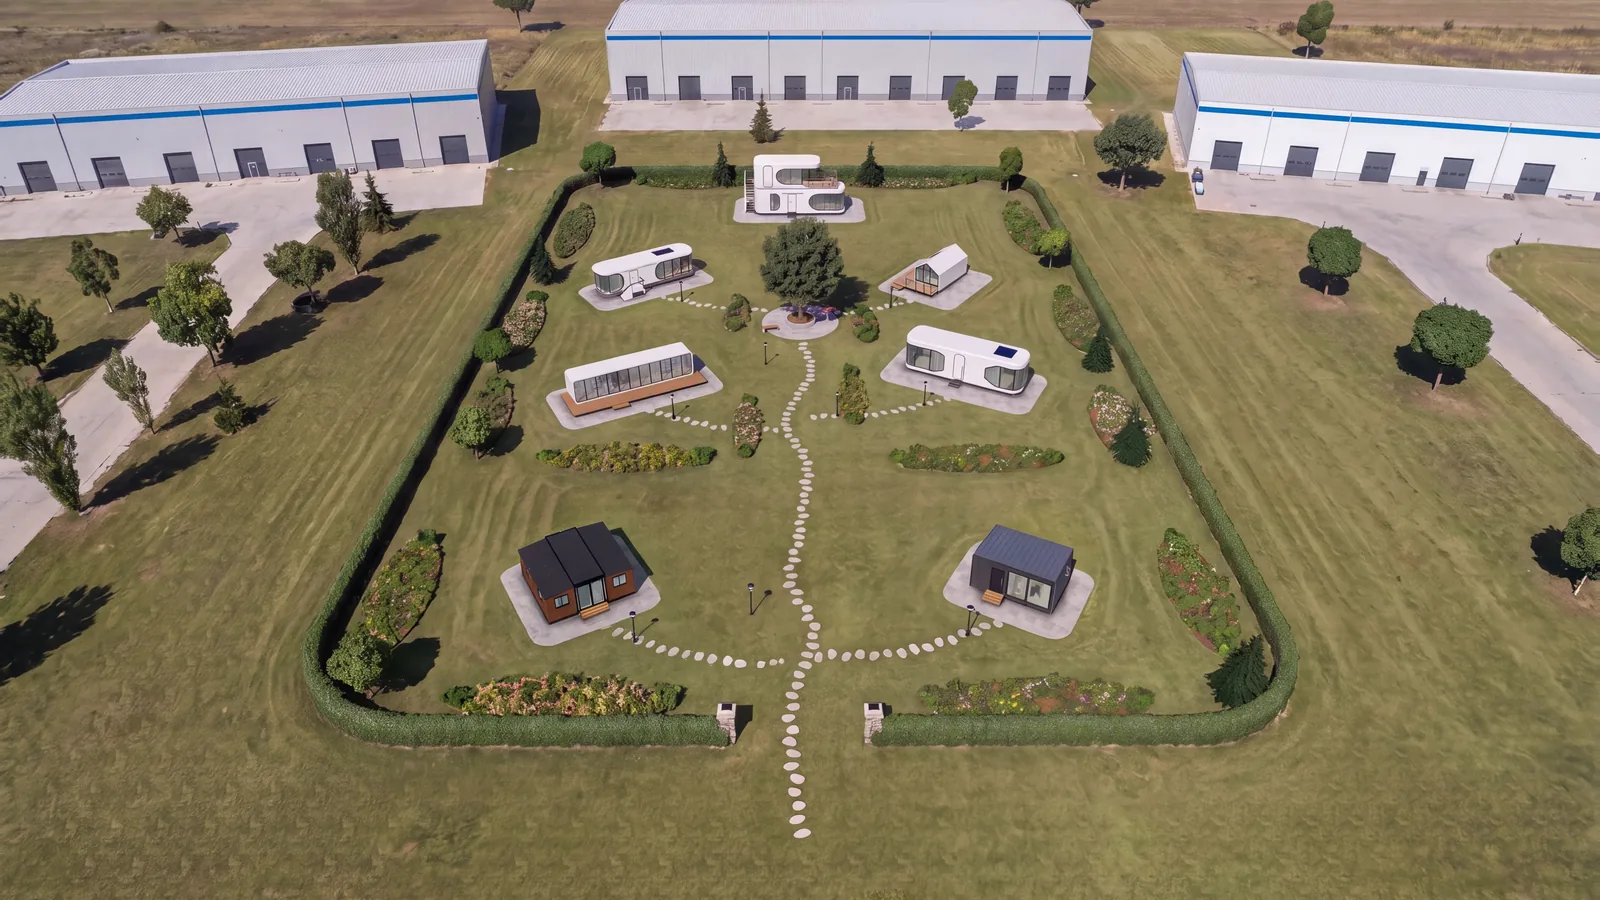
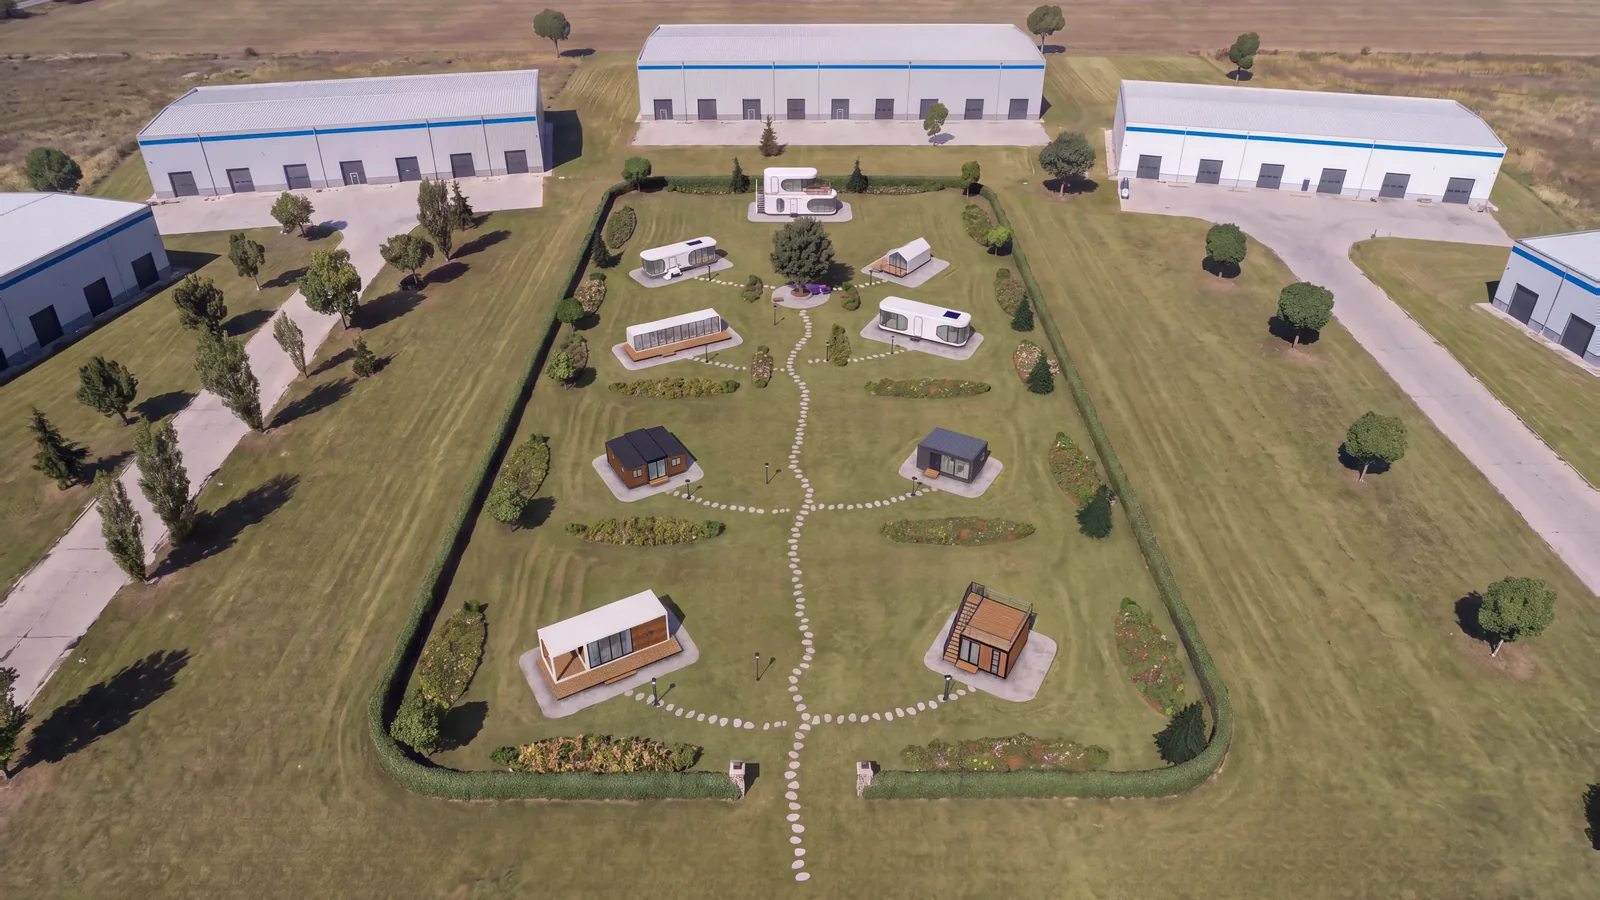
Casele K5 și YK5 în grădină, cu imagini reale (vederi, plan, camere); grădina mărită a doua oară
Claude-Session: https://claude.ai/code/session_01KQBPBSm1ebqTvHwEmS7Cs6

diff --git a/site/js/gradina-data.js b/site/js/gradina-data.js
@@ -35,6 +35,14 @@ export const CASE = [
   { cod: 'C20', mod: 'h_c20', x: -15.5, z: 40, rot: 30, sideP: -1, ai: ['c20_living', 'c20_bucatarie', 'c20_baie', 'c20_dormitor1', 'c20_dormitor2'],
     date: { s: 'C', sn: 'Extensibilă', d: '5,9 × 6,2 × 2,48 m', a: 36.6, l: '2 dormitoare · 1 living cu bucătărie · 1 baie',
       t: 'Casă extensibilă de 20 ft: vine strânsă, cât un container, și se desface pe loc în ambele părți. Două dormitoare, living cu bucătărie și baie.', p: null } },
+  // K5 și YK5: casele din oferta din 24 nov 2026, în partea adăugată la a doua mărire a grădinii. Datele sunt din fișa furnizorului;
+  // prețul de vânzare nu se știe încă (nu-l inventa). Camerele din model: K5 = Cameră, Terasă; YK5 = Living, Bucătărie, Baie, Dormitor.
+  { cod: 'K5', mod: 'h_k5', x: 15.5, z: 66, rot: -30, ai: ['k5_camera', 'k5_terasa'],
+    date: { s: 'K', sn: 'Extensibilă cu terasă', d: '4,0 × 5,0 × 2,55 m', a: 20, l: '1 cameră · terasă pe acoperiș',
+      t: 'Căsuță care se desface pe loc la 4 × 5 m, cu scară exterioară și terasă pe tot acoperișul, cu balustradă de sticlă.', p: null } },
+  { cod: 'YK5', mod: 'h_yk5', x: -15.5, z: 66, rot: 30, ai: ['yk5_living', 'yk5_bucatarie', 'yk5_baie', 'yk5_dormitor'],
+    date: { s: 'YK', sn: 'Modulară', d: '9,6 × 3,3 × 3,0 m', a: 32, l: '1 dormitor · 1 living cu bucătărie · 1 baie',
+      t: 'Casă modulară cu ramă albă și fațadă din lamele de lemn: living cu bucătărie în spatele unei uși glisante mari, dormitor, baie și un colț acoperit de terasă.', p: null } },
 ];
 
 // Grădina: mărimea gardului viu și locul intrării (metri). Pe 16 nov 2026 a fost mărită spre intrare (înainte: adancime 72, centruZ −8,
@@ -42,7 +50,7 @@ export const CASE = [
 // x = ±15,5, z = 40. straturiNoi = straturi cu flori puse pe locurile încă libere: [x, z, jumătate de lățime, jumătate de adâncime, culori 0–3];
 // când vine o casă pe un loc liber, stratul de acolo se scoate din listă. Dacă mai trebuie loc: se mărește iar adancime (și centruZ,
 // intrareZ cu jumătate / cu totul), apoi se refac imaginile cu toată grădina.
-export const GRADINA = { latime: 64, adancime: 98, centruZ: 5, intrareZ: 54, straturiNoi: [] };
+export const GRADINA = { latime: 64, adancime: 124, centruZ: 18, intrareZ: 80, straturiNoi: [] };
 
 // Imagini realiste (făcute cu AI pornind de la machetă) pentru vederile de zi din afară: toată grădina și fiecare casă.
 // Pentru fiecare vedere (all = toată grădina, apoi codul casei): [imaginea pentru ecran lat, imaginea pentru ecran înalt]; unde lipsește
@@ -52,7 +60,7 @@ export const GRADINA = { latime: 64, adancime: 98, centruZ: 5, intrareZ: 54, str
 // exact din locul în care stă camera în acea vedere (locurile se citesc din pagină cu __gradina.views()), deci, dacă muți o casă,
 // schimbi grădina sau locul camerei, imaginile trebuie refăcute (surse/ai360/CITESTE.md). Seara se vede macheta 3D.
 export const VEDERI = {
-  all: [['gr_all', -0.762, 0.762, -0.558, 0.458], ['gr_all_p', -0.34, 0.34, -0.492, 0.413]],   // grădina mărită, cu T6 și C20 (17 nov 2026)
+  all: [['gr_all_v2', -0.762, 0.762, -0.558, 0.458], ['gr_all_p_v2', -0.34, 0.34, -0.492, 0.413]],   // grădina mărită a doua oară, cu K5 și YK5 (24 nov 2026)
   X7: [['gr_x7', -1.068, 0.686, -0.514, 0.473], ['gr_x7_p', -0.494, 0.309, -0.282, 0.321]],
   T7: [['gr_t7', -1.065, 0.59, -0.51, 0.421], ['gr_t7_p', -0.491, 0.284, -0.271, 0.31]],
   E7: [['gr_e7', -1.069, 0.712, -0.521, 0.481], ['gr_e7_p', -0.55, 0.337, -0.281, 0.311]],
@@ -60,6 +68,8 @@ export const VEDERI = {
   M9: [['gr_m9', -0.997, 0.795, -0.525, 0.483], ['gr_m9_p', -0.302, 0.302, -0.349, 0.407]],
   T6: [['gr_t6', -1.149, 0.805, -0.597, 0.503], ['gr_t6_p', -0.296, 0.296, -0.27, 0.321]],
   C20: [['gr_c20', -1.164, 0.79, -0.597, 0.503], ['gr_c20_p', -0.253, 0.253, -0.296, 0.335]],
+  K5: [['gr_k5', -1.023, 0.838, -0.492, 0.555], ['gr_k5_p', -0.285, 0.285, -0.331, 0.382]],
+  YK5: [['gr_yk5', -1.069, 0.708, -0.52, 0.48], ['gr_yk5_p', -0.498, 0.297, -0.279, 0.318]],
 };
 
 // Rotirea realistă a unei case: cadrele unei filmări (făcute cu AI pornind de la rotirea machetei) care ocolește casa complet, pe
@@ -96,4 +106,6 @@ export const PLANURI = {
   M9: [['pl_m9_1', -1.129, 0.561, -0.614, 0.513], ['pl_m9_2', -1.129, 0.561, -0.614, 0.513]],
   T6: [['pl_t6_1', -1.059, 0.67, -0.408, 0.333]],
   C20: [['pl_c20_1', -1.059, 0.67, -0.408, 0.333]],
+  K5: [['pl_k5_1', -1.059, 0.67, -0.408, 0.333]],
+  YK5: [['pl_yk5_1', -1.061, 0.648, -0.525, 0.436]],
 };

diff --git a/site/js/garden.js b/site/js/garden.js
@@ -7,7 +7,7 @@ import { THREE, clamp, lerp, ease, webglOK, fit } from './kit.js';
 import { createGScene } from './gscene.js';
 import { buildGarden } from './genv.js';
 import { createPano } from './pano.js';
-import { CASE, GRADINA, VEDERI, ROTIRI, PLANURI } from './gradina-data.js?v=20261124';   // ?v= se schimbă când se schimbă datele sau imaginile (altfel navigatorul ține fișierul vechi)
+import { CASE, GRADINA, VEDERI, ROTIRI, PLANURI } from './gradina-data.js?v=20261124b';   // ?v= se schimbă când se schimbă datele sau imaginile (altfel navigatorul ține fișierul vechi)
 import { openClip, warmClip, canClip } from './clip.js';
 
 window.__gdMod = 1;   // semn pentru pagina că modulul s-a încărcat (altfel pagina arată imaginea de rezervă)
@@ -143,7 +143,8 @@ async function boot() {
   function view(m, i, l, pv) {
     let L, P;
     if (m === 'all' || i < 0) {
-      L = { tx: 0, ty: 1, tz: GZ + 10, az: 0, el: 31, fw: 82, fh: 58 }; P = { tx: 0, ty: 1, tz: GZ + 10, az: 0, el: 50, fw: 50, fh: 84 };   // grădina mărită (98 m adâncime)
+      const GD = GRADINA.adancime, fL = GD > 98 ? GD * .515 + 7.5 : 58, fP = GD > 98 ? GD * .766 + 9 : 84;   // la 98 m: cadrele cu care au fost făcute imaginile; mai adâncă: cadrul crește cu ea
+      L = { tx: 0, ty: 1, tz: GZ + 10, az: 0, el: 31, fw: fL * 82 / 58, fh: fL }; P = { tx: 0, ty: 1, tz: GZ + 10, az: 0, el: 50, fw: fP * 50 / 84, fh: fP };
     } else {
       const h = H[i], s = h.s, r = h.c.rot, c = h.center, long = isLong(s), two = h.api.levels > 1;
       if (m === 'house') {

diff --git a/site/home.html b/site/home.html
@@ -2837,7 +2837,7 @@ if(document.fonts&&document.fonts.ready)document.fonts.ready.then(()=>{measure()
 place();measure();update();
 })();
 </script>
-<script type="module" src="js/garden.js?v=20261124"></script>
+<script type="module" src="js/garden.js?v=20261124b"></script>
 <script>/* dacă modulul grădinii nu s-a putut încărca: rămâne imaginea grădinii */
 addEventListener('load',()=>setTimeout(()=>{const s=document.getElementById('gradina');if(!s||window.__gdMod)return;s.classList.add('gd--static');const i=s.querySelector('.gd-still[data-src]');if(i){i.src=i.dataset.src;i.removeAttribute('data-src')}},400));</script>
 </body>

diff --git a/site/index.html b/site/index.html
@@ -2837,7 +2837,7 @@ if(document.fonts&&document.fonts.ready)document.fonts.ready.then(()=>{measure()
 place();measure();update();
 })();
 </script>
-<script type="module" src="js/garden.js?v=20261124"></script>
+<script type="module" src="js/garden.js?v=20261124b"></script>
 <script>/* dacă modulul grădinii nu s-a putut încărca: rămâne imaginea grădinii */
 addEventListener('load',()=>setTimeout(()=>{const s=document.getElementById('gradina');if(!s||window.__gdMod)return;s.classList.add('gd--static');const i=s.querySelector('.gd-still[data-src]');if(i){i.src=i.dataset.src;i.removeAttribute('data-src')}},400));</script>
 </body>

diff --git a/surse/final/parts/gradina.html b/surse/final/parts/gradina.html
@@ -196,7 +196,7 @@
 </section>
 <!--/HTML-->
 <!--JS-->
-<script type="module" src="js/garden.js?v=20261124"></script>
+<script type="module" src="js/garden.js?v=20261124b"></script>
 <script>/* dacă modulul grădinii nu s-a putut încărca: rămâne imaginea grădinii */
 addEventListener('load',()=>setTimeout(()=>{const s=document.getElementById('gradina');if(!s||window.__gdMod)return;s.classList.add('gd--static');const i=s.querySelector('.gd-still[data-src]');if(i){i.src=i.dataset.src;i.removeAttribute('data-src')}},400));</script>
 <!--/JS-->

diff --git a/CLAUDE.md b/CLAUDE.md
@@ -367,23 +367,28 @@ partea a șasea. Credite folosite: ≈ 57.100 (din care ≈ 10.900 pe o încerca
 - Stă la https://designdn25-afk.github.io/capsula-media/agrokart/ ; sursa e pe ramura `claude/agrokart-demo` (`agrokart/demo`, făcută cu
   `agrokart/tools/genereaza.py`). `tools/publica_pages.sh` o pune la loc la fiecare publicare a site-ului cu capsule.
 
-## Casele K5 și YK5 (cerute pe 24 nov 2026; ÎN LUCRU, oprite de client: „oprește momentan”)
-Clientul a trimis o ofertă (PDF, nu se urcă în git: are prețuri de achiziție și date bancare) cu două case și a cerut: „vreau și casele
-astea să le băgăm în grădina aia 3D, tot așa, să pară totul real”.
+## Casele K5 și YK5 (24 nov 2026) — în grădină, publicate, FĂRĂ rotire
+Clientul a trimis o ofertă (PDF, nu se urcă în git: are prețuri de achiziție și date bancare) cu două case: „vreau și casele astea
+să le băgăm în grădina aia 3D, tot așa, să pară totul real”. A oprit o dată lucrul („oprește momentan”), apoi: „hai continuă cu grădina”.
 - **K5** (nume de lucru): căsuță extensibilă 4,0 × 5,0 × 2,55 m, ~20 m², lamele maro, ușă dublă de sticlă + geam îngust în față, scară
   exterioară pe stânga, terasă pe tot acoperișul cu balustradă de sticlă; înăuntru canapea, pat, televizor (după desenul tehnic; în
-  ofertă apare și ca „cafenea”: clientul a fost întrebat). Model gata: `site/js/h_k5.js` (camere: Cameră, Terasă).
-- **YK5** (nume de lucru, „YK-5 modular house”): 9,6 × 3,3 × 3,0 m, 32 m², ramă albă, lamele de lemn, ușă glisantă mare, colț acoperit de
-  terasă în stânga; living cu bucătărie, dormitor, baie (baia nu apare în ofertă: presupunere, clientul a fost întrebat). Model gata:
-  `site/js/h_yk5.js` (camere: Living, Bucătărie, Baie, Dormitor).
-- **Grădina** se mărește a doua oară, tot spre intrare (98 → 124 m): `site/js/genv.js` are deja etapa a doua (`extra2`, `VECHI2`), care
-  lasă pe loc tot ce există. Casele se pun cu `python3 surse/ai360/k5yk5/pune.py` (K5 la x 15,5 · z 66 · rot −30; YK5 la −15,5 · 66 · 30)
-  și se scot cu `--scoate`. **Acum sunt scoase**: fără imaginile lor reale nu se publică (s-ar vedea macheta).
-- Verificat cu casele puse: vederile caselor vechi ies neschimbate. T6 și C20 au primit `sideP` în `gradina-data.js`, ca vederea lor
-  de telefon să nu se mute (casele noi le-ar fi „blocat” partea aleasă). Se schimbă doar cele două vederi „toată grădina” (centrul
-  urcă la z 28): de verificat dacă toată grădina de 124 m mai încape în cadru (`view('all')` în `garden.js`).
-- **Ce urmează** (pașii din `surse/ai360/CITESTE.md`, partea a cincea): sursele (`capflat.js`, `cap360.js`), imaginile reale (2 × toată
-  grădina, câte 2 vederi + plan + camere pe casă), rotirile. Cost estimat ≈ 70.000–75.000 de credite (fără rotiri ≈ 45.000); pe 24 nov
-  clientul mai avea ≈ 99.000. **Clientul n-a aprobat încă creditele**: de întrebat din nou înainte de a porni imaginile.
-- Punctele camerelor (lume, cu casele puse): K5 Cameră 14,704 · 1,85 · 66,579; Terasă 16,06 · 4,45 · 65,63. YK5 Living −15,991 · 1,99 · 67,15;
-  Bucătărie −15,199 · 1,99 · 65,422; Baie −13,021 · 1,99 · 65,694; Dormitor −13,736 · 1,99 · 64,635.
+  ofertă apare și ca „cafenea”). Model: `site/js/h_k5.js` (camere: Cameră, Terasă). x 15,5 · z 66 · rot −30.
+- **YK5** (nume de lucru, „YK-5 modular house”): 9,6 × 3,3 × 3,0 m, 32 m², ramă albă, lamele de lemn, ușă glisantă mare, colț acoperit
+  de terasă în stânga; living cu bucătărie, dormitor, baie (**baia nu apare în ofertă: presupunere**). Model: `site/js/h_yk5.js`
+  (camere: Living, Bucătărie, Baie, Dormitor). x −15,5 · z 66 · rot 30.
+- **Întrebări puse clientului, fără răspuns încă** (nu-l bombarda; întreabă o dată când aduce vorba): K5 cu pat sau cafenea; YK5 are
+  baie; numele și prețurile de vânzare (acum „Preț pe ofertă”).
+- **Grădina a fost mărită a doua oară**, tot spre intrare (98 → 124 m; `GRADINA`). `site/js/genv.js` are etapa a doua (`extra2`, `VECHI2`):
+  tot ce exista a rămas pe loc (verificat: vederile caselor vechi au ieșit neschimbate). T6 și C20 au `sideP` în `gradina-data.js`, ca
+  vederea lor de telefon să nu se mute. Vederea „toată grădina” crește cu adâncimea (`view('all')` în `garden.js`). La a treia mărire:
+  încă o etapă la fel (`extra3`) și locuri la z = 92.
+- **Imagini** (`site/img/gd/ai/`): `gr_all_v2`, `gr_all_p_v2` (toată grădina, nume noi), `gr_k5`, `gr_k5_p`, `gr_yk5`, `gr_yk5_p`, `pl_k5_1`,
+  `pl_yk5_1`, `k5_camera`, `k5_terasa`, `yk5_living`, `yk5_bucatarie`, `yk5_baie`, `yk5_dormitor`. Sursele: `surse/ai360/…_src.jpg` și
+  `surse/ai360/vederi/…_src.jpg`. Noduri în flux: etichetele încep cu „n2”. Credite: 16 imagini ≈ 40.450 (două camere refăcute:
+  terasa și bucătăria ieșiseră recompuse; a doua cerere, „re-texture… WITHOUT changing geometry”, cu obiectele enumerate de la
+  stânga la dreapta și fără a doua imagine de referință, a ieșit aliniată).
+- **Ce e mai slab:** vederile din afară ale celor două case și terasa lui K5 arată puțin „machetă lustruită” (gazon în dungi, copaci
+  rotunzi), mai puțin reale decât T6. Dacă clientul observă: se refac cu o imagine reală ca țintă, ca la `gr_c20_p`.
+- **Rotirea NU e făcută** (≈ 13.600 de credite pe casă + ≈ 2.400 Topaz): casele noi stau pe loc la tragere (nu se vede macheta).
+  Clientul a fost întrebat de două ori dacă o vrea; de făcut doar cu acordul lui. La fel rotirile vechi nu arată casele noi în fundal.
+- `surse/ai360/k5yk5/pune.py` a fost folosit la punere; acum rândurile au și `ai: [...]`, deci `--scoate` nu mai merge (se scot de mână).
